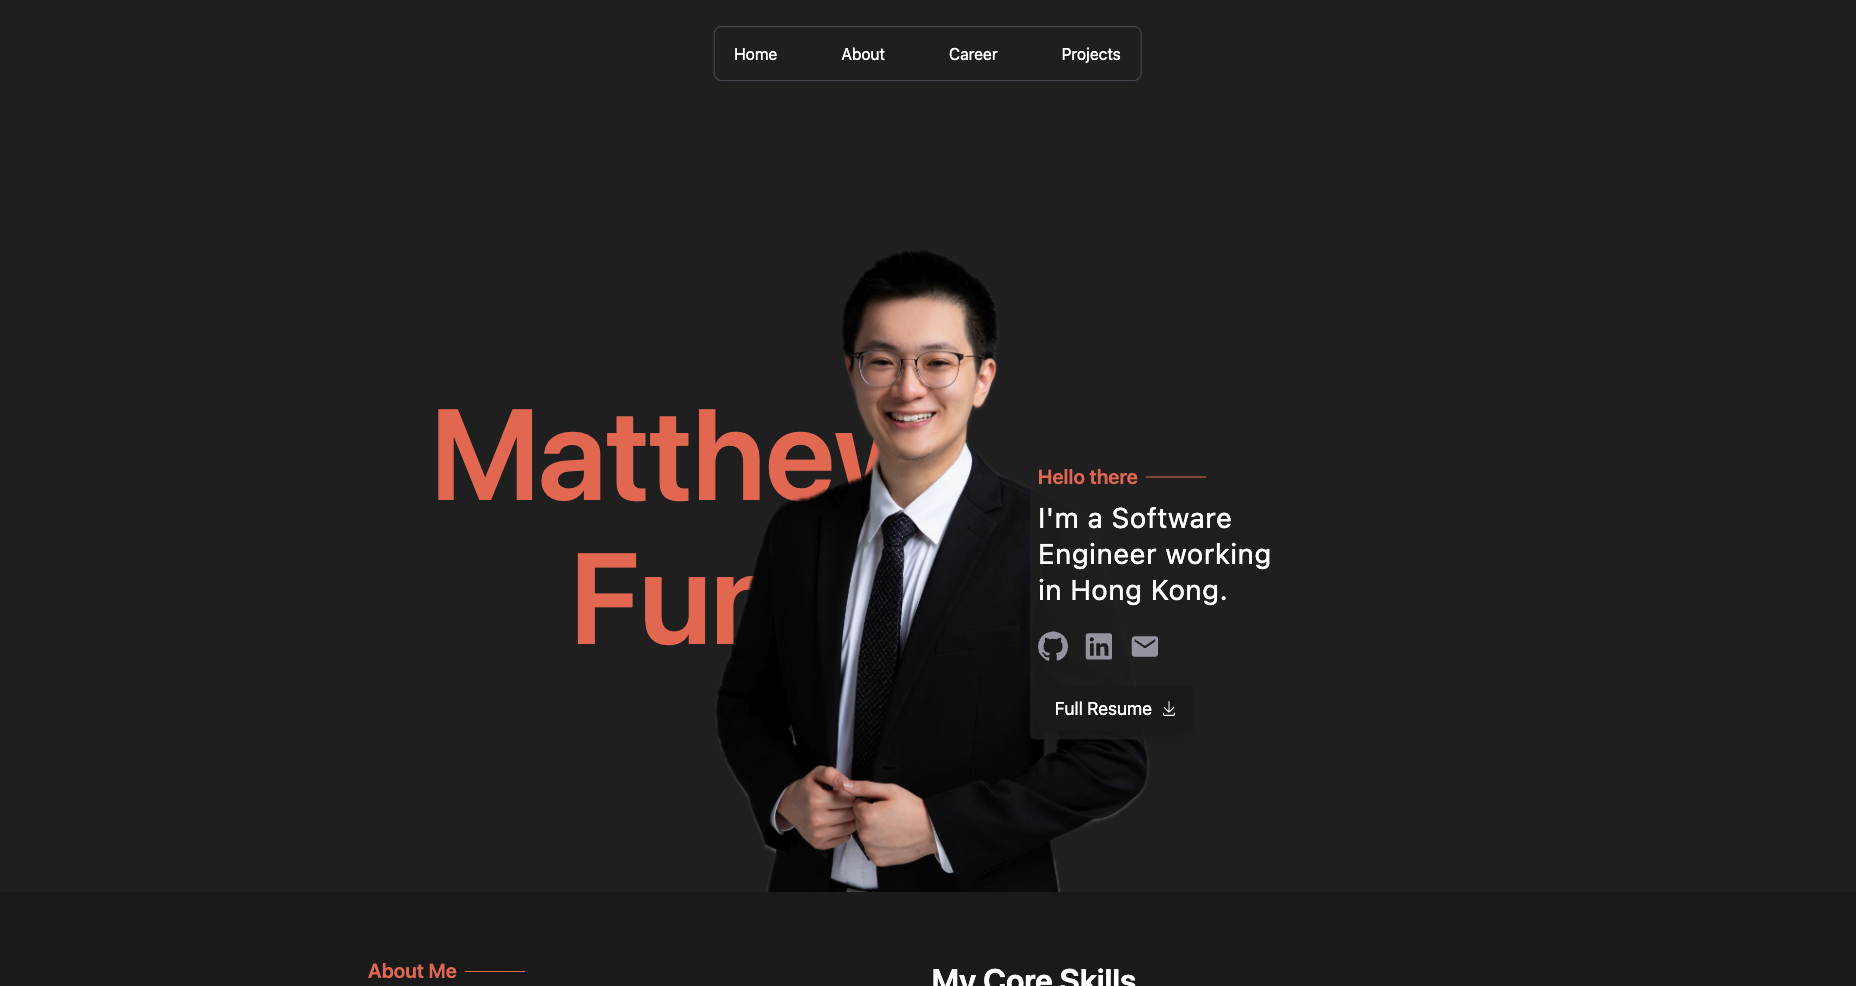
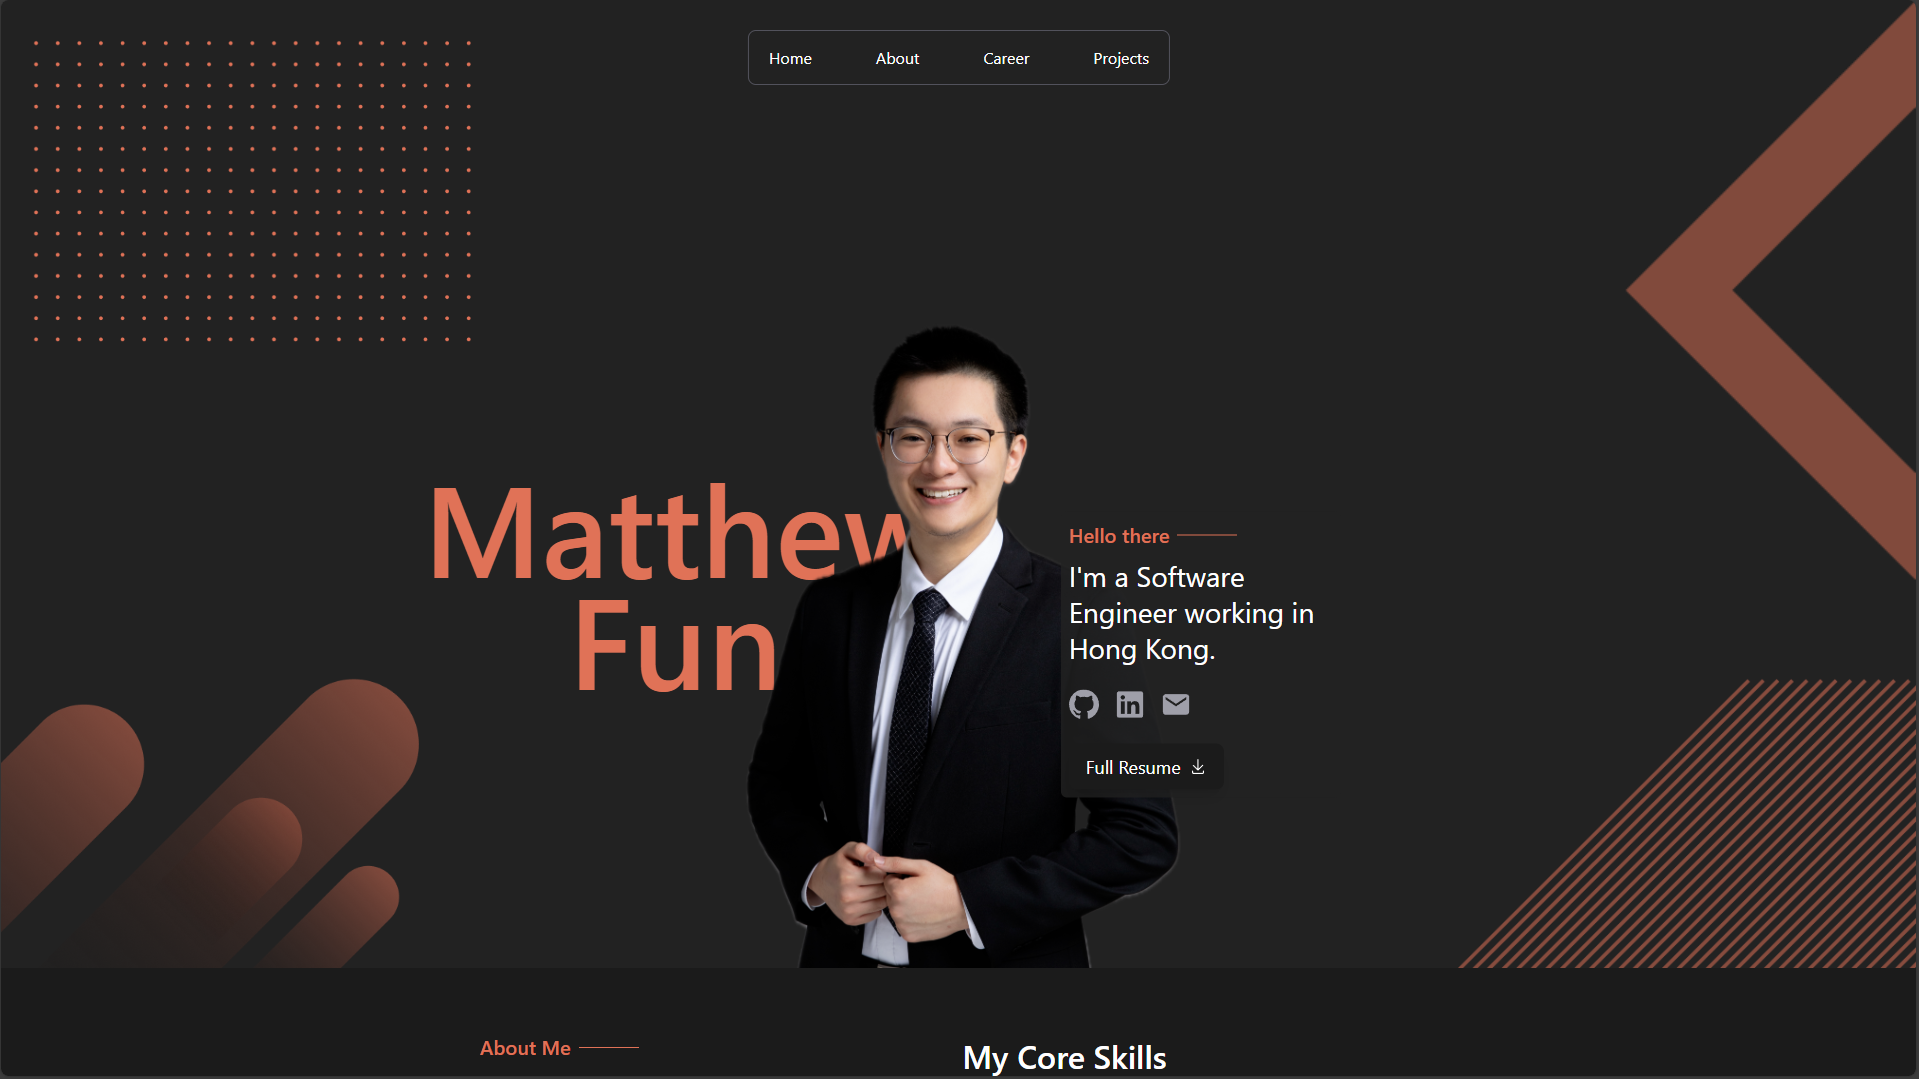
updated project images, added additional animations

diff --git a/src/sections/About.jsx b/src/sections/About.jsx
@@ -14,39 +14,45 @@ const About = () => {
     >
       <div className="w-[80%] md:w-[75%] lg:w-[60%] xl:w-[50%] flex flex-col lg:flex-row gap-2 z-20">
         {/* About Me */}
-        <div className="lg:w-1/2 flex flex-col gap-4">
-          <ParagraphTitle title="About Me" />
-          <Description
-            text="I graduated from PolyU in 2024 as a Computing Major.
+        <ReavealEffect initialX={-100}>
+          <div className="lg:w-1/2 flex flex-col gap-4">
+            <ParagraphTitle title="About Me" />
+            <Description
+              text="I graduated from PolyU in 2024 as a Computing Major.
             I'm now working as a Software Engineer in Hong Kong specializing in Web Devlopment. My
             duties are to bring client's specifications and requirements to life
             using HTML and CSS. I've helped created an AI Chatbot SaaS platform
             using ASP.net."
-          />
-          <div className="flex gap-2">
-            <ExperienceLabel
-              years={1}
-              qualification={"Year Fulltime Experience"}
             />
-            <ExperienceLabel
-              years={1}
-              qualification={"Year Part-time Experience"}
-            />
+            <div className="flex gap-2">
+              <ExperienceLabel
+                years={1}
+                qualification={"Year Fulltime Experience"}
+              />
+              <ExperienceLabel
+                years={1}
+                qualification={"Year Part-time Experience"}
+              />
+            </div>
           </div>
-        </div>
+        </ReavealEffect>
 
         {/* Skills */}
-        <div className="lg:w-1/2 mt-4 md:mt-0 flex flex-col">
-          <span className="text-[32px] font-semibold mb-4">My Core Skills</span>
-          <div className="grid grid-cols-3 gap-2">
-            <TechCard src={"/tech/html.png"} />
-            <TechCard src={"/tech/css.png"} />
-            <TechCard src={"/tech/react.png"} />
-            <TechCard src={"/tech/tailwind.png"} />
-            <TechCard src={"/tech/framer-motion.png"} />
-            <TechCard src={"/tech/dotnet.png"} />
+        <ReavealEffect initialX={-100} delay={0.2}>
+          <div className="lg:w-1/2 mt-4 md:mt-0 flex flex-col">
+            <span className="text-[32px] font-semibold mb-4">
+              My Core Skills
+            </span>
+            <div className="grid grid-cols-3 gap-2">
+              <TechCard src={"/tech/html.png"} />
+              <TechCard src={"/tech/css.png"} />
+              <TechCard src={"/tech/react.png"} />
+              <TechCard src={"/tech/tailwind.png"} />
+              <TechCard src={"/tech/framer-motion.png"} />
+              <TechCard src={"/tech/dotnet.png"} />
+            </div>
           </div>
-        </div>
+        </ReavealEffect>
       </div>
 
       <div

diff --git a/src/sections/Hero.jsx b/src/sections/Hero.jsx
@@ -7,6 +7,7 @@ import { IoMdMail } from "react-icons/io";
 import { GoDownload } from "react-icons/go";
 import HighlightButton from "@/components/UI/HighlightButton";
 import Paragraph from "@/components/UI/Paragraph";
+import { motion } from "framer-motion";
 
 const Hero = () => {
   const handleSocialOnClick = (url) => {
@@ -19,19 +20,32 @@ const Hero = () => {
     >
       <div className="relative h-full w-[85%] sm:w-[531px] md:w-[637px] lg:w-[849px] xl:w-[1062px] 2xl:w-[1274px]">
         {/* Name */}
-        <div className="absolute left-[50%] translate-x-[-50%] md:left-[8%] md:translate-x-0 top-[22%] lg:top-[63%] lg:translate-y-[-63%] text-[96px]/28 md:text-[128px]/28 font-semibold text-highlight text-center w-fit h-fit md:z-20">
+        <motion.div
+          initial={{ x: -200, opacity: 0, zIndex: 20 }}
+          animate={{ x: 0, opacity: 1, zIndex: 20 }}
+          transition={{ duration: 0.5, delay: 0 }}
+          className="absolute left-[50%] translate-x-[-50%] md:left-[8%] md:translate-x-0 top-[22%] lg:top-[63%] lg:translate-y-[-63%] text-[96px]/28 md:text-[128px]/28 font-semibold text-highlight text-center w-fit h-fit md:z-20"
+        >
           <div>Matthew</div>
           <div className="md:ml-[64px]">Fung</div>
-        </div>
+        </motion.div>
 
         {/* Hero */}
-        <img
+        <motion.img
           src="./assets/landing.png"
+          initial={{ opacity: 0, zIndex: 30 }}
+          animate={{ opacity: 1, zIndex: 30 }}
+          transition={{ duration: 0.5, delay: 0.2 }}
           className="w-[380px] h-[530px] md:w-[465px] md:h-[650px]  absolute bottom-0 left-[50%] translate-x-[-50%] z-30"
         />
 
         {/* Short Description */}
-        <div className="flex flex-col gap-2 absolute right-[50%] translate-x-[50%] lg:right-[10%] lg:translate-x-0 xl:right-[20%] top-[60%] lg:top-[75%] lg:translate-y-[-75%] text-white w-[280px] z-50 p-2 bg-foreground/80 lg:bg-none rounded-md">
+        <motion.div
+          initial={{ x: 200, opacity: 0, zIndex: 50 }}
+          animate={{ x: 0, opacity: 1, zIndex: 50 }}
+          transition={{ duration: 0.5, delay: 0 }}
+          className="flex flex-col gap-2 absolute right-[50%] translate-x-[50%] lg:right-[10%] lg:translate-x-0 xl:right-[20%] top-[60%] lg:top-[75%] lg:translate-y-[-75%] text-white w-[280px] z-50 p-2 bg-foreground/80 lg:bg-none rounded-md"
+        >
           <ParagraphTitle title="Hello there" />
           <Paragraph text="I'm a Software Engineer working in Hong Kong." />
           <div className="flex gap-4 justify-normal items-center my-4">
@@ -63,7 +77,7 @@ const Hero = () => {
               icon={<GoDownload />}
             />
           </div>
-        </div>
+        </motion.div>
       </div>
 
       {/* Decor */}

diff --git a/src/components/Navbar.jsx b/src/components/Navbar.jsx
@@ -5,6 +5,7 @@ import { MdInfoOutline } from "react-icons/md";
 import { MdBusinessCenter } from "react-icons/md";
 import { FaDiagramProject } from "react-icons/fa6";
 import { useEffect } from "react";
+import ReavealEffect from "./UI/RevealEffect";
 
 const Navbar = () => {
   useEffect(() => {
@@ -39,12 +40,14 @@ const Navbar = () => {
   }, []);
 
   return (
-    <nav className="fixed border border-zinc-600 bg-foreground z-100 h-[55px] w-fit rounded-lg py-3 px-5 flex justify-center items-center gap-[64px] top-[50px] md:top-[30px] left-1/2 translate-x-[-50%]">
-      <NavItem href="hero" icon={<AiOutlineHome />} lbl="Home" />
-      <NavItem href="about" icon={<MdInfoOutline />} lbl="About" />
-      <NavItem href="career" icon={<MdBusinessCenter />} lbl="Career" />
-      <NavItem href="projects" icon={<FaDiagramProject />} lbl="Projects" />
-    </nav>
+    <ReavealEffect duration={0.5}>
+      <nav className="fixed border border-zinc-600 bg-foreground z-100 h-[55px] w-fit rounded-lg py-3 px-5 flex justify-center items-center gap-[64px] top-[50px] md:top-[30px] left-1/2 translate-x-[-50%]">
+        <NavItem href="hero" icon={<AiOutlineHome />} lbl="Home" />
+        <NavItem href="about" icon={<MdInfoOutline />} lbl="About" />
+        <NavItem href="career" icon={<MdBusinessCenter />} lbl="Career" />
+        <NavItem href="projects" icon={<FaDiagramProject />} lbl="Projects" />
+      </nav>
+    </ReavealEffect>
   );
 };
 

diff --git a/src/sections/Projects.jsx b/src/sections/Projects.jsx
@@ -3,6 +3,7 @@ import { ProjectBlock } from "@/components/UI/Block";
 import { useState } from "react";
 import projectList from "@/data/project";
 import ProjectModal from "@/components/ProjectModal";
+import ReavealEffect from "@/components/UI/RevealEffect";
 
 const Projects = () => {
   const [open, setOpen] = useState(false);
